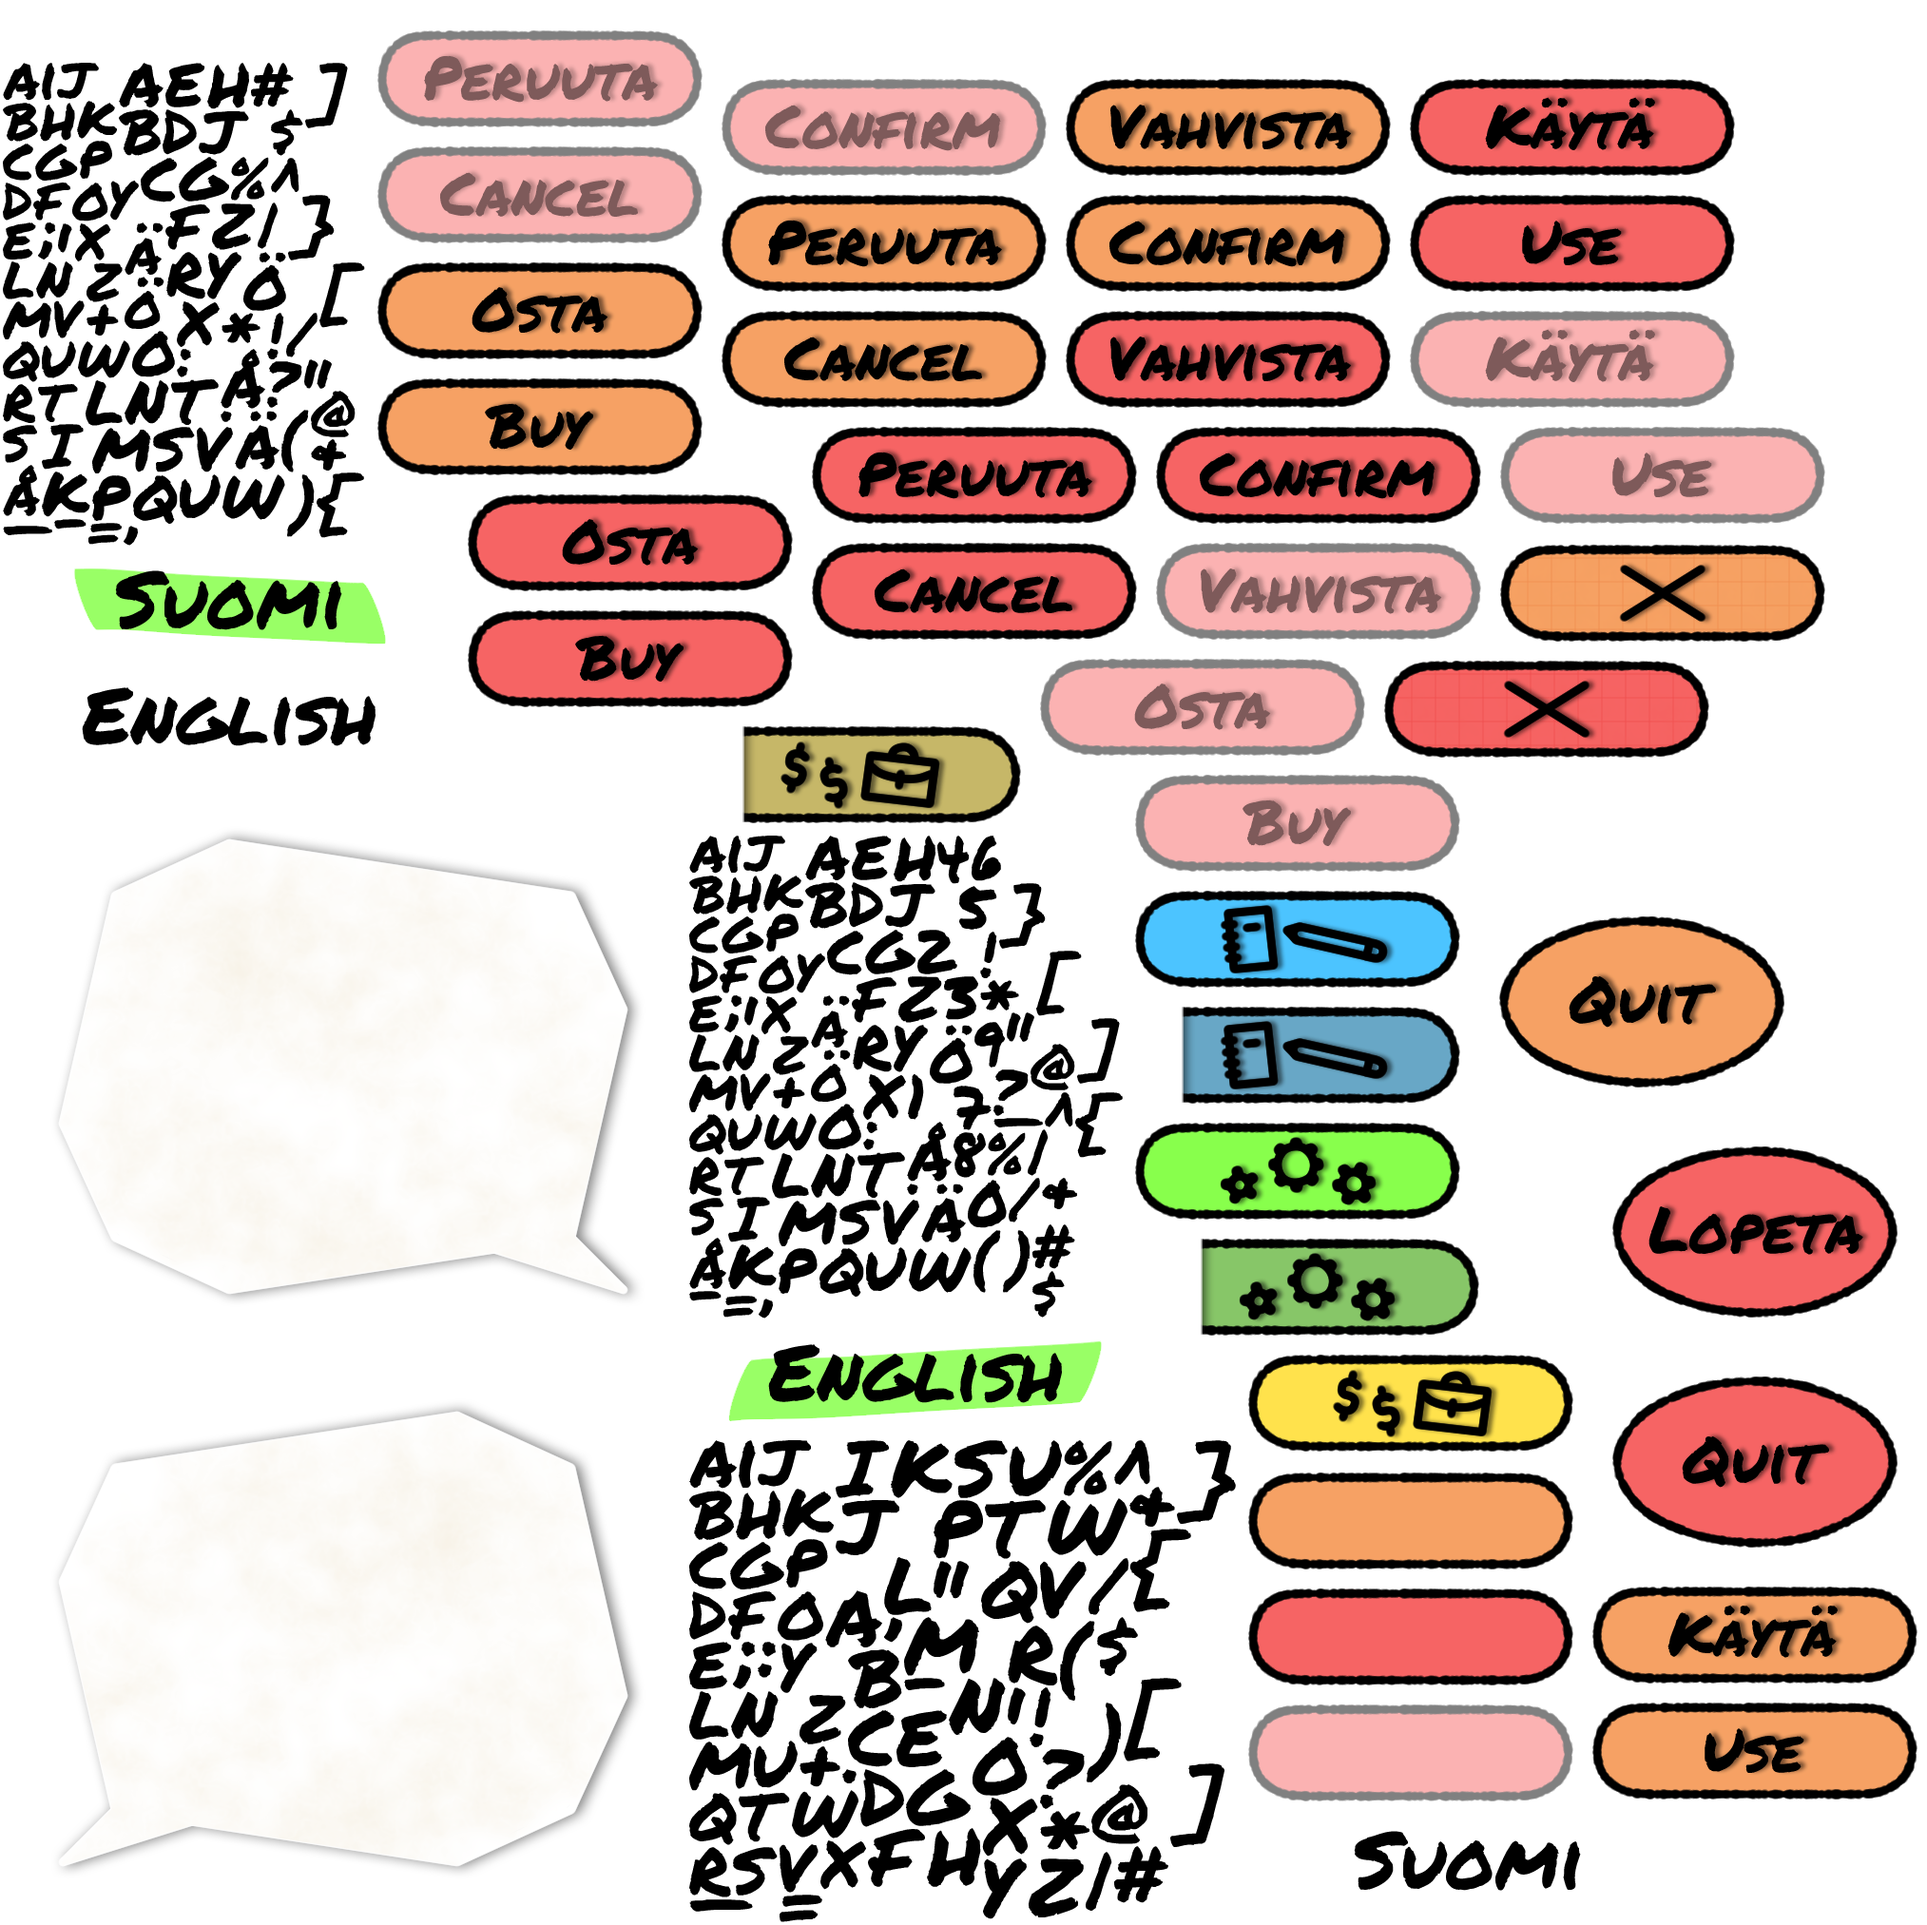
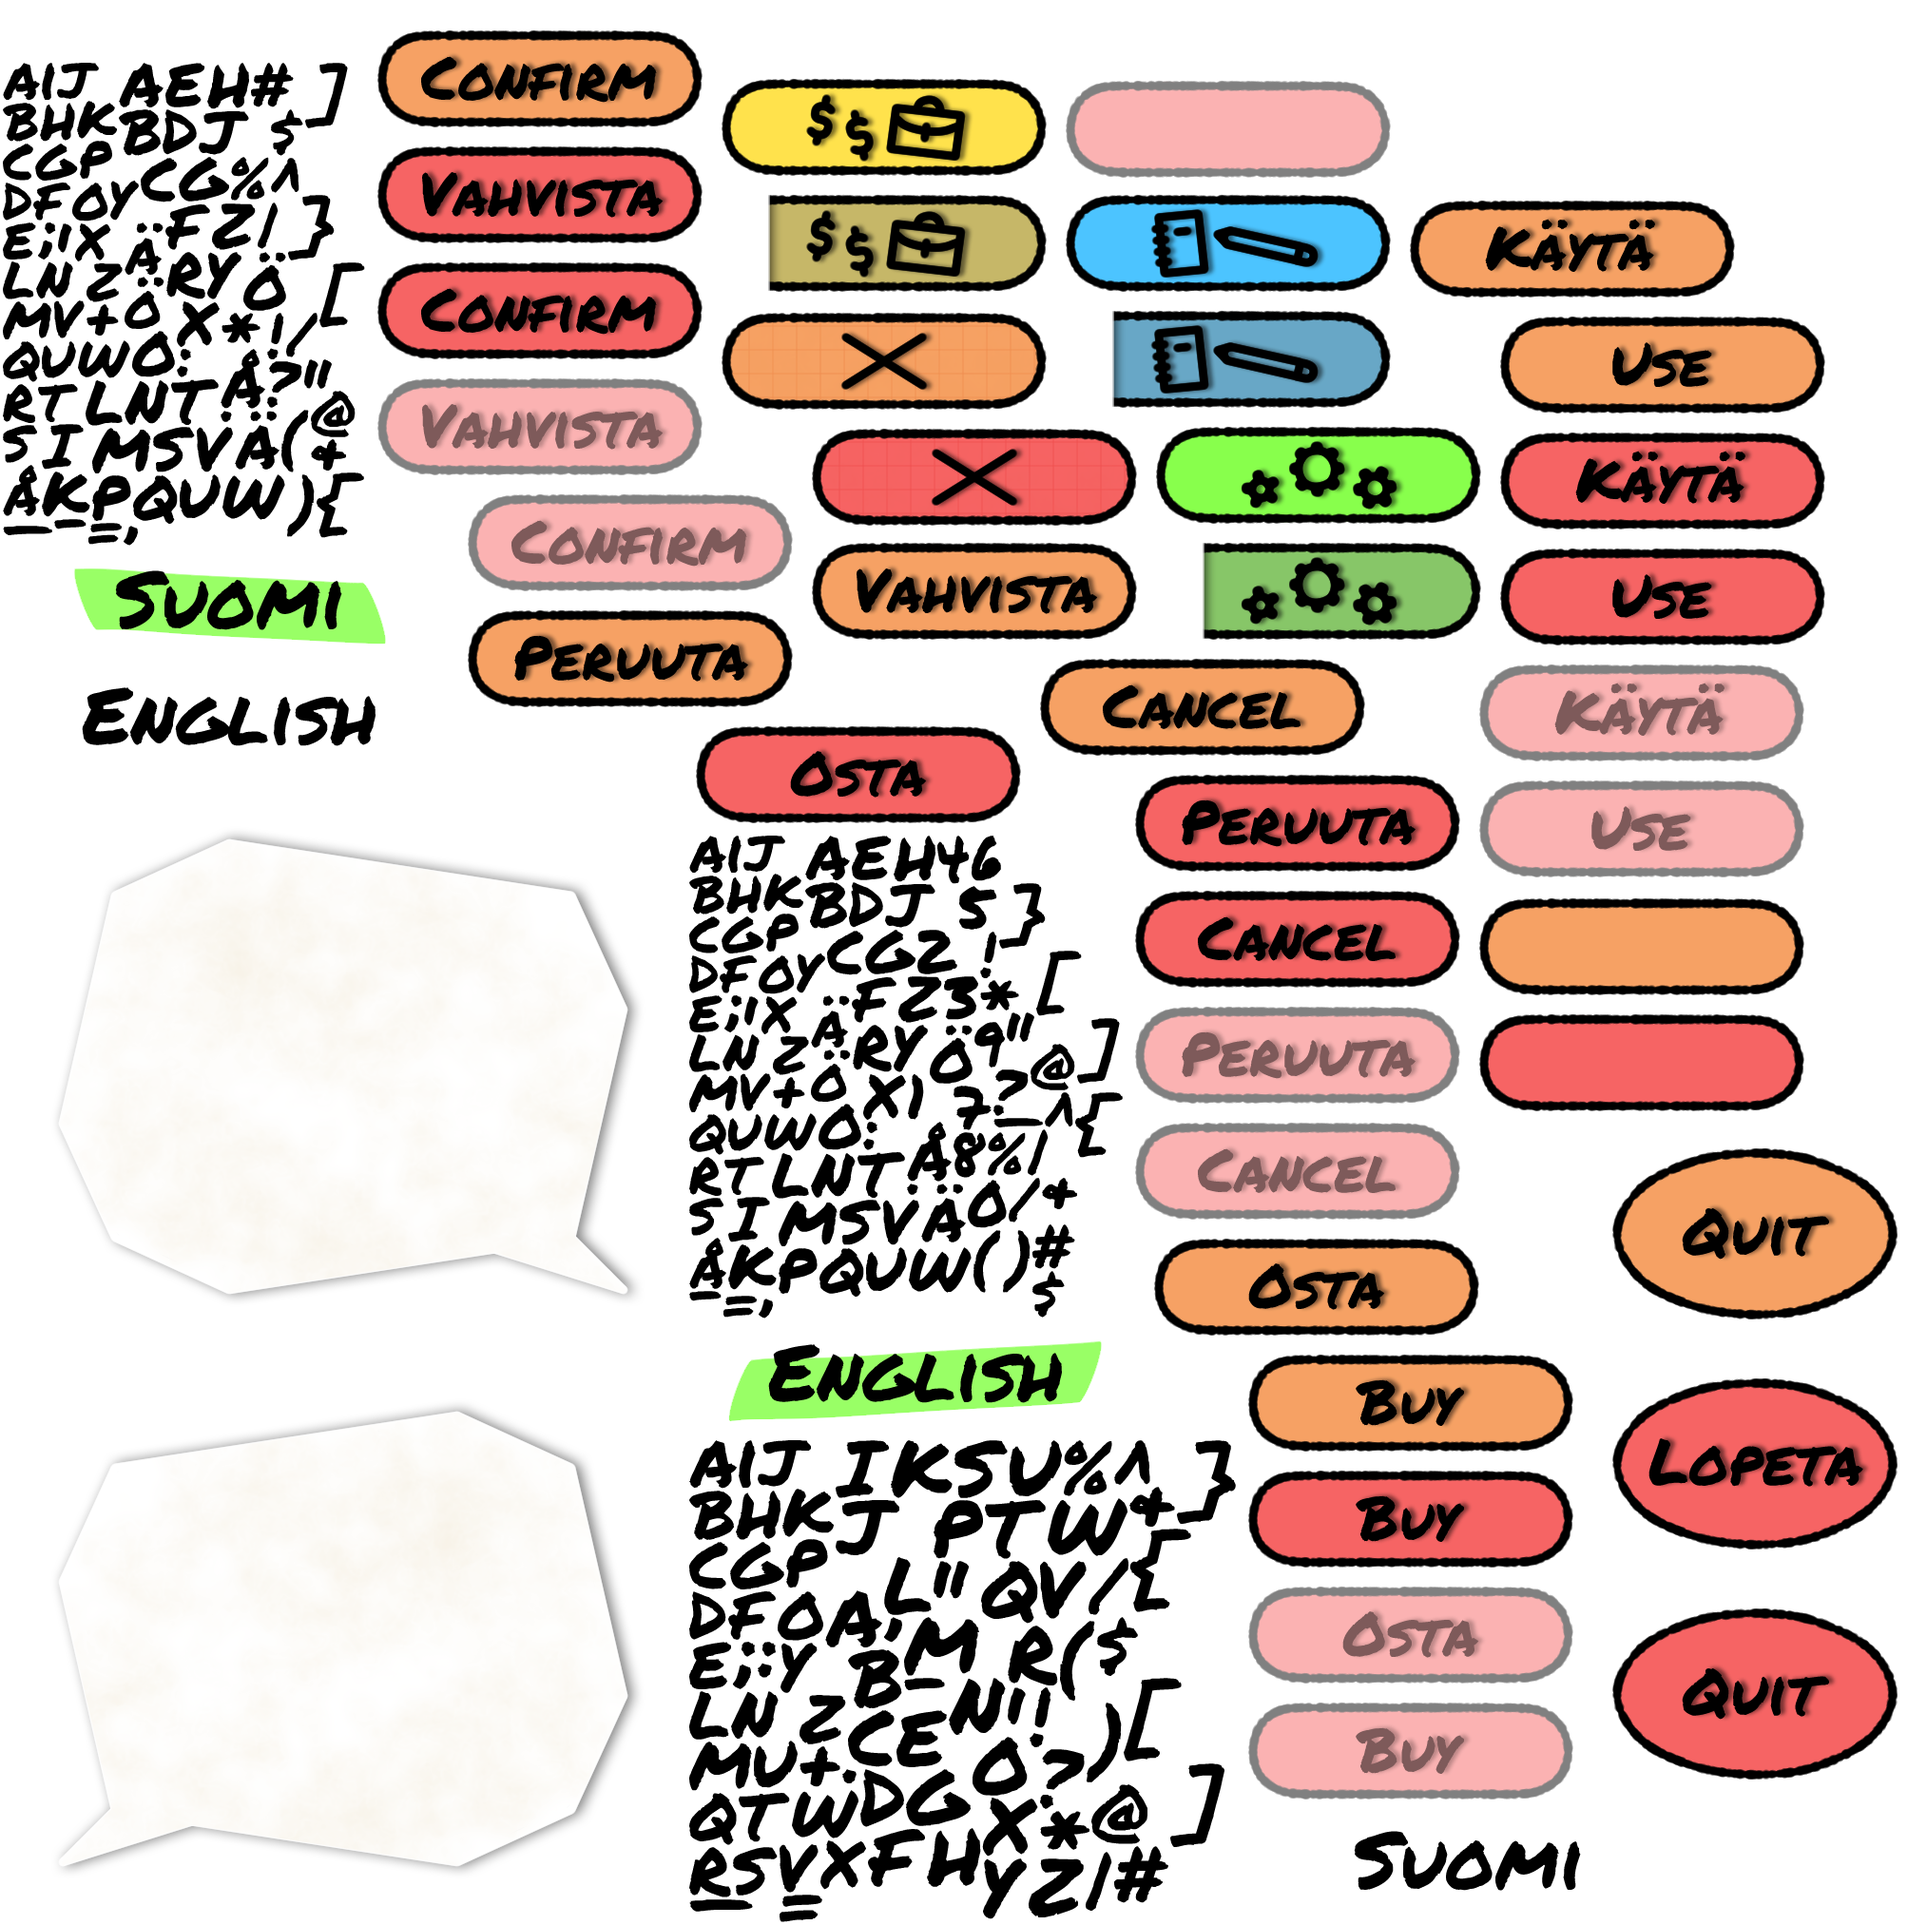
Updated skin and item/powerup-popups should now work.

Changed region(s): [[0.1865, 0.0, 0.9946, 0.9333]]

diff --git a/core/src/fi/tamk/fi/UtilItem.java b/core/src/fi/tamk/fi/UtilItem.java
@@ -251,11 +251,20 @@ public class UtilItem {
         final String stringCost = String.valueOf(Item.getItem(allItems[index]).get("price"));
         final int price = Integer.valueOf(stringCost);
 
-        popupBuyableItem = utilDialog.createPopupItemAndPowerUp(openedItem, description);
+        popupBuyableItem = utilDialog.createPopupItemAndPowerUp(openedItem, description, "popup_item");
+
+        Label labelPrice = new Label("Price: " + stringCost, finalSkin);
+        labelPrice.setPosition(game.pixelWidth/4, 400);
+        labelPrice.setSize(960, 70);
+        labelPrice.setAlignment(1);
+        popupBuyableItem.addActor(labelPrice);
+
         createBackButton(popupBuyableItem);
 
-        final TextButton buttonBuy = new TextButton("Buy", skin);
-        buttonBuy.setPosition(popupBuyableItem.getWidth()/2 - 300, popupBuyableItem.getHeight()/4);
+        final ImageButton buttonBuy = new ImageButton(finalSkin, "buy_en");
+        buttonBuy.setPosition(popupBuyableItem.getWidth()/2 - 400, popupBuyableItem.getHeight()/4 - 60);
+        System.out.println(buttonBuy.getX());
+        System.out.println(buttonBuy.getY());
         buttonBuy.addListener(new ClickListener(){
             @Override
             public void clicked(InputEvent event, float x, float y){
@@ -281,7 +290,7 @@ public class UtilItem {
         String description = String.valueOf(Item.getItem(openedItem).get("description"));
         final String usedInHall = String.valueOf(Item.getItem(allItems[index]).get("usedInHall"));
 
-        popupOwnedItem = utilDialog.createPopupItemAndPowerUp(openedItem, description);
+        popupOwnedItem = utilDialog.createPopupItemAndPowerUp(openedItem, description, "popup_powerup");
         createBackButton(popupOwnedItem);
 
         /*
@@ -289,8 +298,8 @@ public class UtilItem {
         TextButton buttonUse = new TextButton("Use", skin, "StyleUseOn")
         and moved inside the if-statement.
         */
-        TextButton buttonUse = new TextButton("Use", skin);
-        buttonUse.setPosition(popupOwnedItem.getWidth()/2 - 300, popupOwnedItem.getHeight()/4);
+        ImageButton buttonUse = new ImageButton(finalSkin, "use_en");
+        buttonUse.setPosition(560, 210);
         if ((room.equals("hall") && usedInHall.equals("true")) ||
             (room.equals("fight") && usedInHall.equals("false"))) {
             buttonUse.addListener(new ClickListener(){
@@ -315,8 +324,8 @@ public class UtilItem {
     }
 
     private void createBackButton(final Dialog dialog) {
-        TextButton buttonBack = new TextButton("Back", skin);
-        buttonBack.setPosition(dialog.getWidth()/2, dialog.getHeight()/4);
+        ImageButton buttonBack = new ImageButton(finalSkin, "cancel_en");
+        buttonBack.setPosition(dialog.getWidth()/2 + 35, 210);
         dialog.addActor(buttonBack);
         buttonBack.addListener(new ClickListener(){
             @Override

diff --git a/core/src/fi/tamk/fi/UtilDialog.java b/core/src/fi/tamk/fi/UtilDialog.java
@@ -15,6 +15,7 @@ public class UtilDialog {
     private Stage stage;
     private boolean dialogOn, skillNameOn;
     private Skin skin;
+    private Skin finalSkin;
 
     private Label.LabelStyle labelStyle;
     private Window.WindowStyle windowStyle;
@@ -27,6 +28,7 @@ public class UtilDialog {
         windowStyle = game.getWindowStyle();
         fontColor = game.getFontColor();
         skin = game.getSkin();
+        finalSkin = game.getFinalSkin();
     }
 
     public void createDialog(String text) {
@@ -55,26 +57,25 @@ public class UtilDialog {
     }
 
     // Start of all-in-one method.
-    public Dialog createPopupItemAndPowerUp(String header, String description) {
+    public Dialog createPopupItemAndPowerUp(String header, String description, String style) {
 
-        Dialog dialog = new Dialog("", skin);
+        Dialog dialog = new Dialog("", finalSkin, style);
         dialog.setMovable(false);
-        dialog.setSize(game.pixelWidth/2,
-                game.pixelHeight/2 + game.pixelHeight/4);
-        dialog.setPosition(game.pixelWidth/4,
-                game.pixelHeight/3 - game.pixelHeight/4);
+        dialog.setSize(game.pixelWidth, game.pixelHeight);
+        dialog.setPosition(0, 0);
 
-        Label labelHeader = new Label(header, skin);
-        labelHeader.setColor(fontColor);
-        labelHeader.setPosition(dialog.getWidth()/2 - labelHeader.getWidth()/2, dialog.getHeight() - 100);
+        Label labelHeader = new Label(header, finalSkin, "big");
+        labelHeader.setPosition(game.pixelWidth / 4, game.pixelHeight / 2 + 195);
+        labelHeader.setSize(960, 100);
+        labelHeader.setAlignment(1);
 
-        Label labelDescription = new Label(description, skin);
+        Label labelDescription = new Label(description, finalSkin);
         labelDescription.setWrap(true);
-        labelDescription.setWidth(dialog.getWidth() - 100);
-        labelDescription.setHeight(labelDescription.getPrefHeight());
-        labelDescription.setColor(fontColor);
-        labelDescription.setPosition(dialog.getWidth() - dialog.getWidth() + 50,
-                labelHeader.getY() - 100);
+        labelDescription.setWidth(960);
+        labelDescription.setHeight(360);
+        labelDescription.setPosition(labelHeader.getX(),
+                labelHeader.getY() - 370);
+        labelDescription.setAlignment(1);
 
         dialog.addActor(labelHeader);
         dialog.addActor(labelDescription);

diff --git a/core/src/fi/tamk/fi/RoomTestailua.java b/core/src/fi/tamk/fi/RoomTestailua.java
@@ -97,6 +97,7 @@ public class RoomTestailua extends RoomParent {
         });
     }
 
+
     public void createButtonDialog() {
         final TextButton buttonSettings = new TextButton("Dialog", skin);
         buttonSettings.setWidth(300f);
@@ -109,8 +110,8 @@ public class RoomTestailua extends RoomParent {
             @Override
             public void clicked(InputEvent event, float x, float y){
                 Dialog popup = utilDialog.createPopupItemAndPowerUp("Item/PowerUp", "Description " +
-                        "Description Description Description Description Description Description " +
-                        "Descriptionnnn nnn Description Description Description");
+                        "Description Description Description Description " +
+                        "Descriptionnnn nnn Description Description", "popup_powerup");
                 stage.addActor(popup);
             }
         });

diff --git a/core/src/fi/tamk/fi/UtilPowerUp.java b/core/src/fi/tamk/fi/UtilPowerUp.java
@@ -231,7 +231,7 @@ public class UtilPowerUp {
 
     // Draw description for powerup's info
     private void createDescription(String name, String text) {
-        final Dialog dialog1 = dialog.createPopupItemAndPowerUp(name, text);
+        final Dialog dialog1 = dialog.createPopupItemAndPowerUp(name, text, "popup_powerup");
         descriptionBox.addActor(dialog1);
 
     /*
